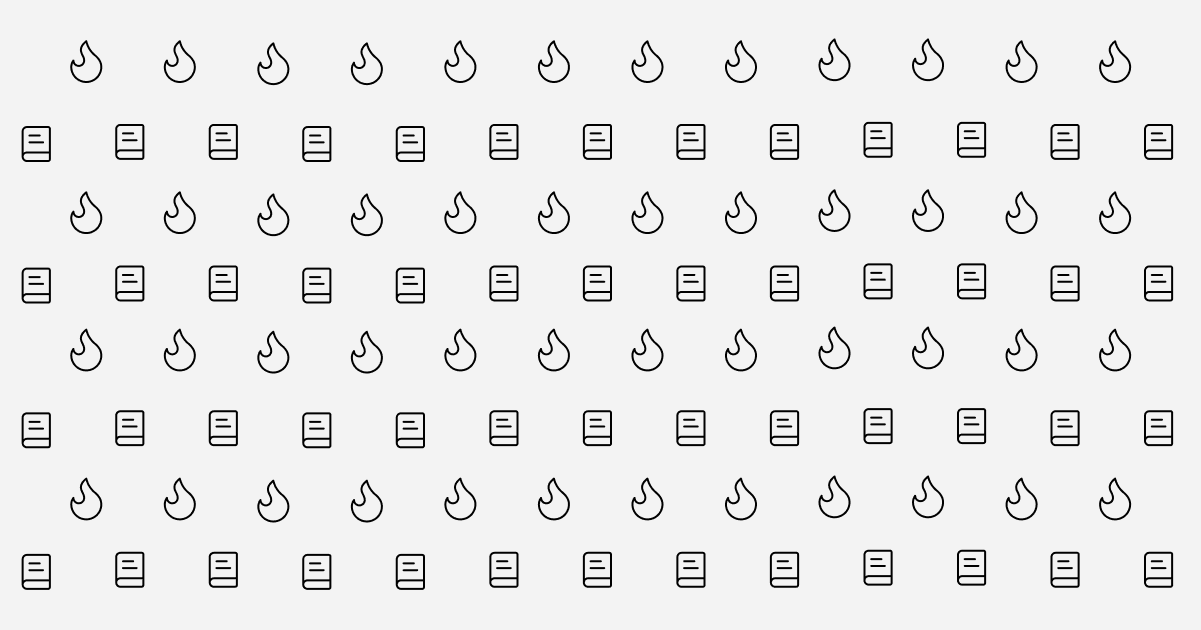
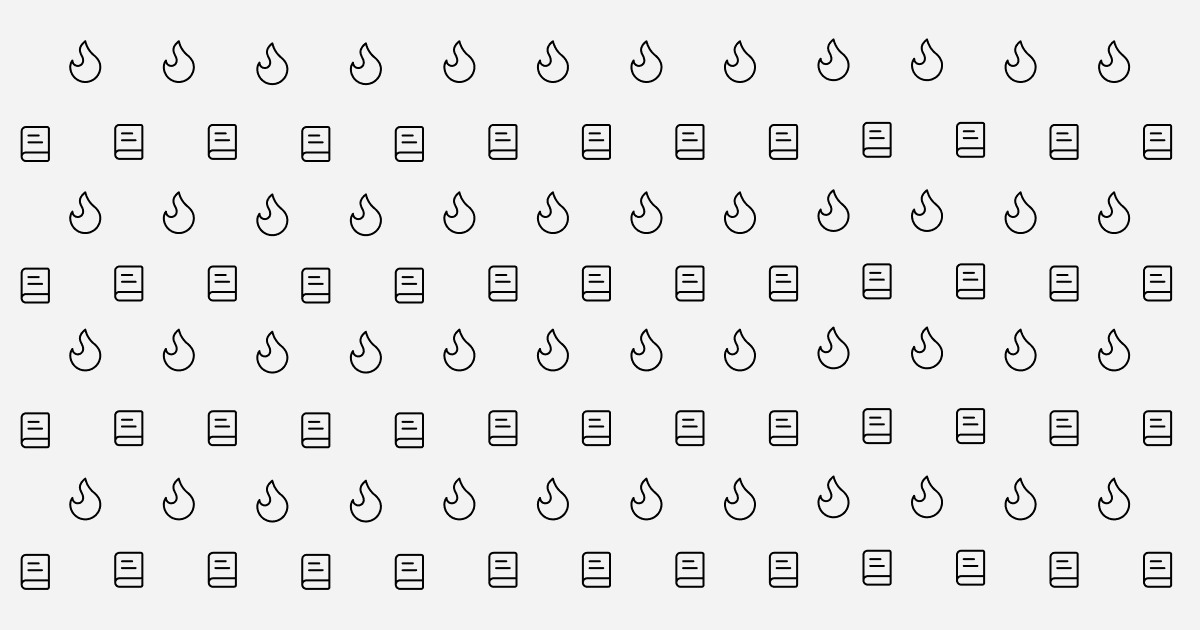
Fixes some seo problems from Lighthouse audit

diff --git a/index.html b/index.html
@@ -9,7 +9,7 @@
     <meta property="og:title" content="BookList - Reading Diary">
     <meta property="og:site_name" content="BookList - Reading Diary">
     <meta property="og:description" content="A simple reading diary for keeping track of the books you've read. Want to see how many books you've read in a month, a year, or any other period? Add them to your diary.">
-    <meta property="og:image" content="/og-image-1200x630.png">
+    <meta property="og:image" content="https://mybooklist.info/og-image-1200x630.png">
     <meta property="og:url" content="https://mybooklist.info">
     <meta property="og:type" content="website">
   </head>

diff --git a/src/components/TheTerms.vue b/src/components/TheTerms.vue
@@ -14,7 +14,7 @@
     </p>
     <p class="mb-4 text-gray-700">If you do not agree with these Terms, you must not use the Service.</p>
     <p class="mb-4 text-gray-700">
-      You must be at least 16 years old, or the minimum legal age required in your country, to use the Service.
+      You must be at least 18 years old, or the minimum legal age required in your country, to use the Service.
     </p>
 
     <h2 class="uppercase text-xl font-semibold mt-6 mb-2">2. About the Service</h2>
